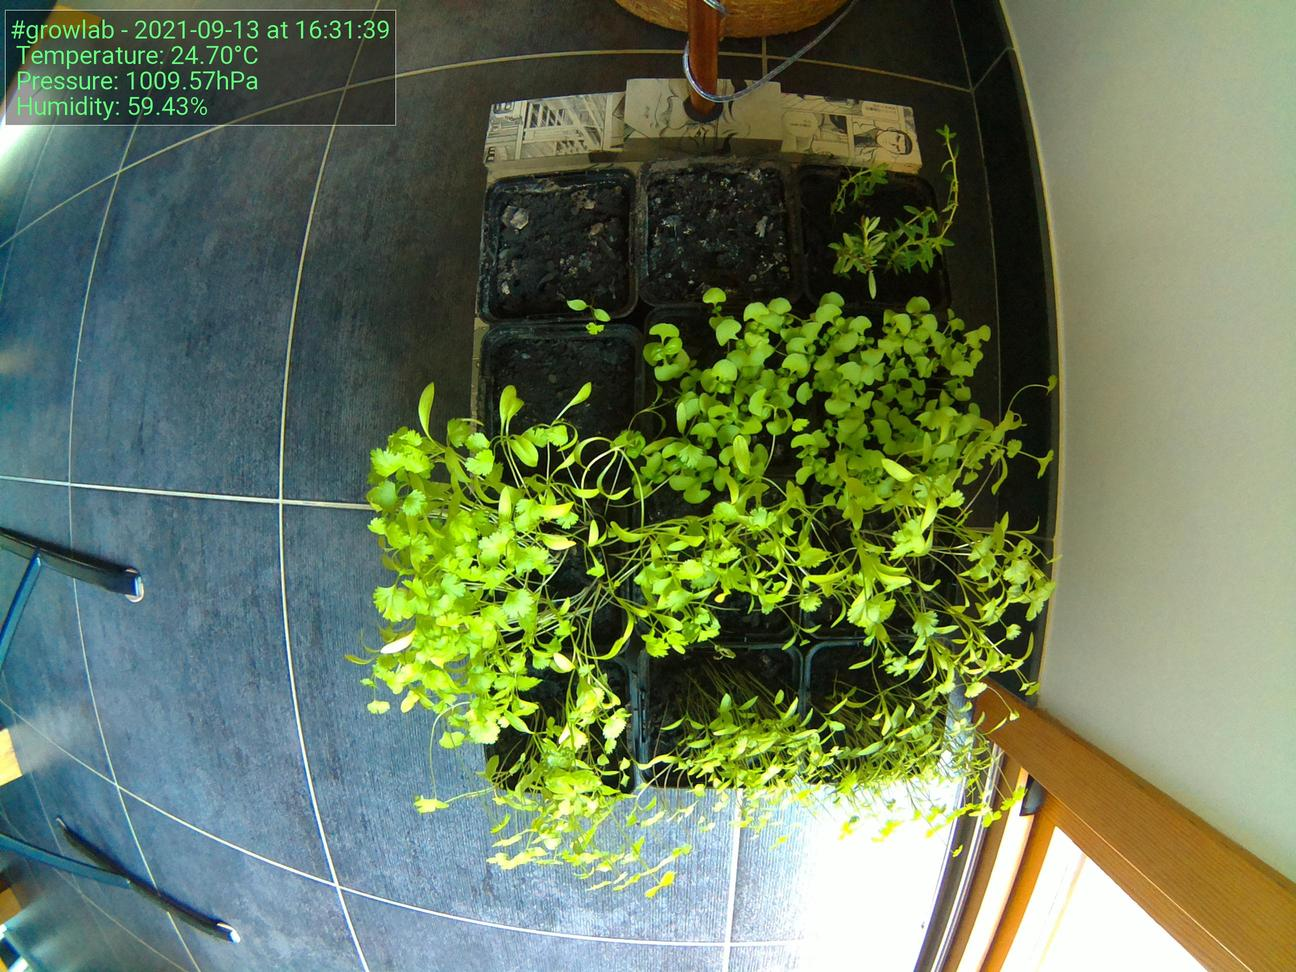
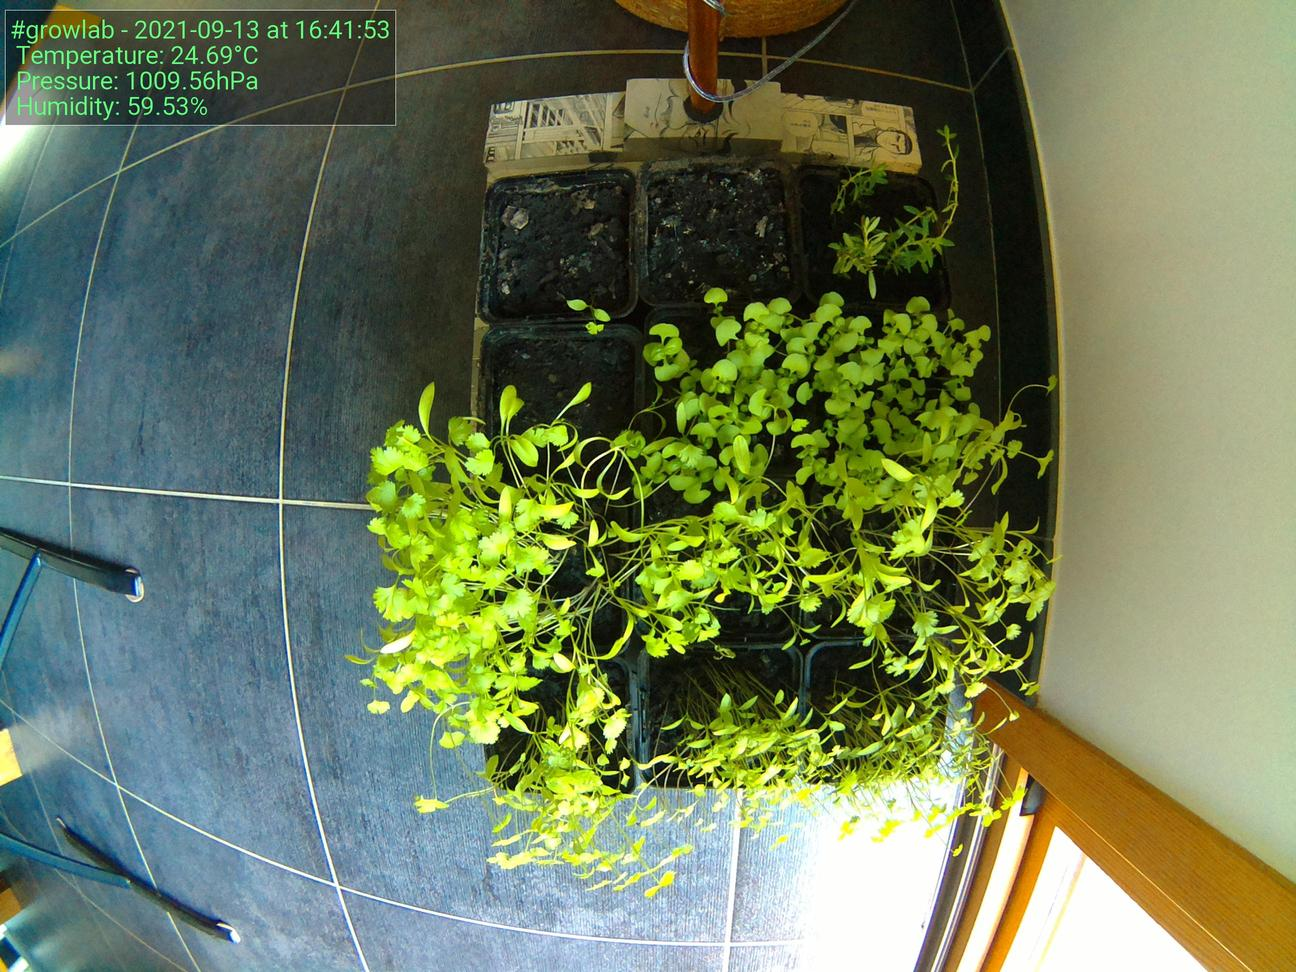
Update images at Mon 13 Sep 16:42:05 CEST 2021

diff --git a/docs/index.html b/docs/index.html
@@ -52,19 +52,19 @@
                             </tr>
                             <tr>
                                 <td>Time</td>
-                                <td>16:31:39</td>
+                                <td>16:41:53</td>
                             </tr>
                             <tr>
                                 <td>Temperature</td>
-                                <td>24.70°C</td>
+                                <td>24.69°C</td>
                             </tr>
                             <tr>
                                 <td>Humidity</td>
-                                <td>59.43%</td>
+                                <td>59.53%</td>
                             </tr>
                             <tr>
                                 <td>Pressure</td>
-                                <td>1009.57hPa</td>
+                                <td>1009.56hPa</td>
                             </tr>
                         </tbody>
                     </table>
@@ -72,7 +72,7 @@
 
                 <h5>Latest image</h5>
                 <div style="width: 85%;">
-                            <img class="figure-img img-fluid rounded" src="./preview.jpg?uid=1631543507.806591">
+                            <img class="figure-img img-fluid rounded" src="./preview.jpg?uid=1631544124.4414692">
                 </div>
             </div>
         </div>
